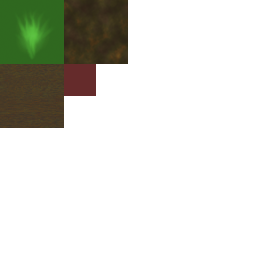
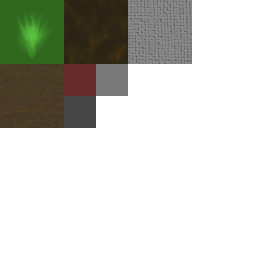
add office chairs

Changed region(s): [[0.5, 0.0, 0.75, 0.25], [0.375, 0.25, 0.5, 0.375], [0.25, 0.375, 0.375, 0.5]]

diff --git a/LD58/source/World/Objects/WorldObjects/OfficeChair.cs b/LD58/source/World/Objects/WorldObjects/OfficeChair.cs
@@ -1,0 +1,7 @@
+namespace LD58.World.Objects.WorldObjects
+{
+    [DefaultInstancer(64, "objects/Office Chair.gmdl", "objects/Office.mat")]
+    public class OfficeChair
+        : WorldObject
+    { }
+}
